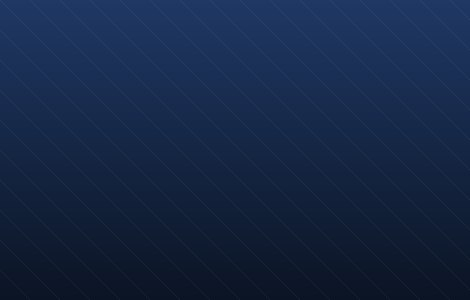
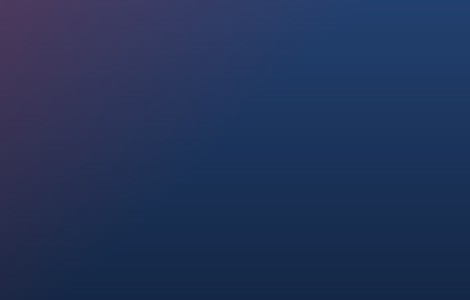
Capturas reales del espejo: tres fallos que el HTML no delataba
Monté Chromium headless en un contenedor de la misma red para poder VER el
espejo, en vez de deducirlo del HTML. Apareció lo que no se veía:

1. Tres de los siete iconos del menú no salían. Puse nombres de Font Awesome 6
   (fa-house, fa-grid-2, fa-screwdriver-wrench) y el tema trae FA5: 1.649 glifos
   con los nombres antiguos. Corregidos a fa-home, fa-th-large y fa-tools.

2. Los iconos que sí salían estaban pegados al texto. La causa: el título va
   DENTRO del span del icono —<span class="hasicon menu-icon-class"><i/>
   <span class="menu-title">…</span></span>— así que mi margin-right movía el
   conjunto en vez de separarlos. Resuelto con flex + gap en el contenedor.

3. Las rayas diagonales seguían por todas partes. No venían del tema: eran SIETE
   placeholders míos del 28/07, no tres. banner-ancho, banner-med-a/b, banner-a/b/c
   y fondo-cat. Regenerados todos con degradados de marca limpios —azul de marca
   con barrido rojo en diagonal y viñeta inferior para el contraste— manteniendo
   nombre y dimensiones, así que se arreglan en todas las secciones a la vez sin
   CSS por sección.

También confirmado en la captura: las tres tarjetas ya tienen la misma altura, el
placeholder animado del buscador funciona en español, el logo se ve mayor y el
enlace del blog desapareció.

Queda documentada la receta de capturas en docs/capturas/LEEME.md, con las tres
trampas que costaron varios intentos: el redirect al dominio canónico deja la
[…]

diff --git a/theme-autosoe/custom.css b/theme-autosoe/custom.css
@@ -320,3 +320,19 @@ body .elementor-12 .elementor-element-a0df6a6 .footer_icon-box .elementor-icon-b
 body .elementor-12 .elementor-element-a0df6a6 .footer_icon-box .elementor-icon-box-description {
   color: #fff;
 }
+
+/* --- Correccion 01/08 (segunda pasada, tras ver capturas reales) -----------
+   El titulo del menu va DENTRO del span del icono:
+     <span class="hasicon menu-icon-class"><i class="fa-light fa-x"></i>
+       <span class="menu-title">…</span></span>
+   asi que un margin-right en .menu-icon-class movia el conjunto, no separaba
+   el icono del texto. Se resuelve con flex + gap en el propio contenedor. */
+.leo-megamenu .navbar-nav > li > a .menu-icon-class,
+.leo-megamenu .navbar-nav > li > a .hasicon {
+  display: inline-flex;
+  align-items: center;
+  gap: .5rem;
+  margin-right: 0;
+}
+.leo-megamenu .navbar-nav > li > a .menu-icon-class > i { flex: none; font-size: 1rem; opacity: .92; }
+.leo-megamenu .navbar-nav > li > a .menu-icon-class .menu-title { line-height: 1; }

diff --git a/docs/capturas/LEEME.md b/docs/capturas/LEEME.md
@@ -1,0 +1,23 @@
+# Capturas del espejo
+
+Hechas con Chromium headless en un contenedor de la misma red de Docker.
+Receta, porque tiene tres trampas:
+
+```bash
+# 1. El espejo redirige al dominio canonico. Cambiarlo temporalmente:
+#    UPDATE psjy_shop_url SET domain='web', domain_ssl='web';
+#    UPDATE psjy_configuration SET value='web' WHERE name IN ('PS_SHOP_DOMAIN','PS_SHOP_DOMAIN_SSL');
+# 2. MSYS_NO_PATHCONV=1, o Git Bash convierte /out en C:/Program Files/Git/out
+# 3. --headless=old  ← con el headless nuevo se queda colgado sin escribir nada
+MSYS_NO_PATHCONV=1 docker run --rm --network importtools_default \
+  -v "$(pwd -W)/tmp-shots:/out" --user root --entrypoint chromium-browser \
+  zenika/alpine-chrome --headless=old --no-sandbox --disable-gpu \
+  --disable-dev-shm-usage --hide-scrollbars \
+  --virtual-time-budget=8000 --window-size=1280,1000 \
+  --screenshot=/out/home.png "http://web/"
+```
+
+Y calentar la cache antes con un curl: la primera peticion tras vaciarla tarda
+unos 50 s y la captura sale en blanco.
+
+⚠ Al terminar, devolver el dominio a `localhost:8080`.
